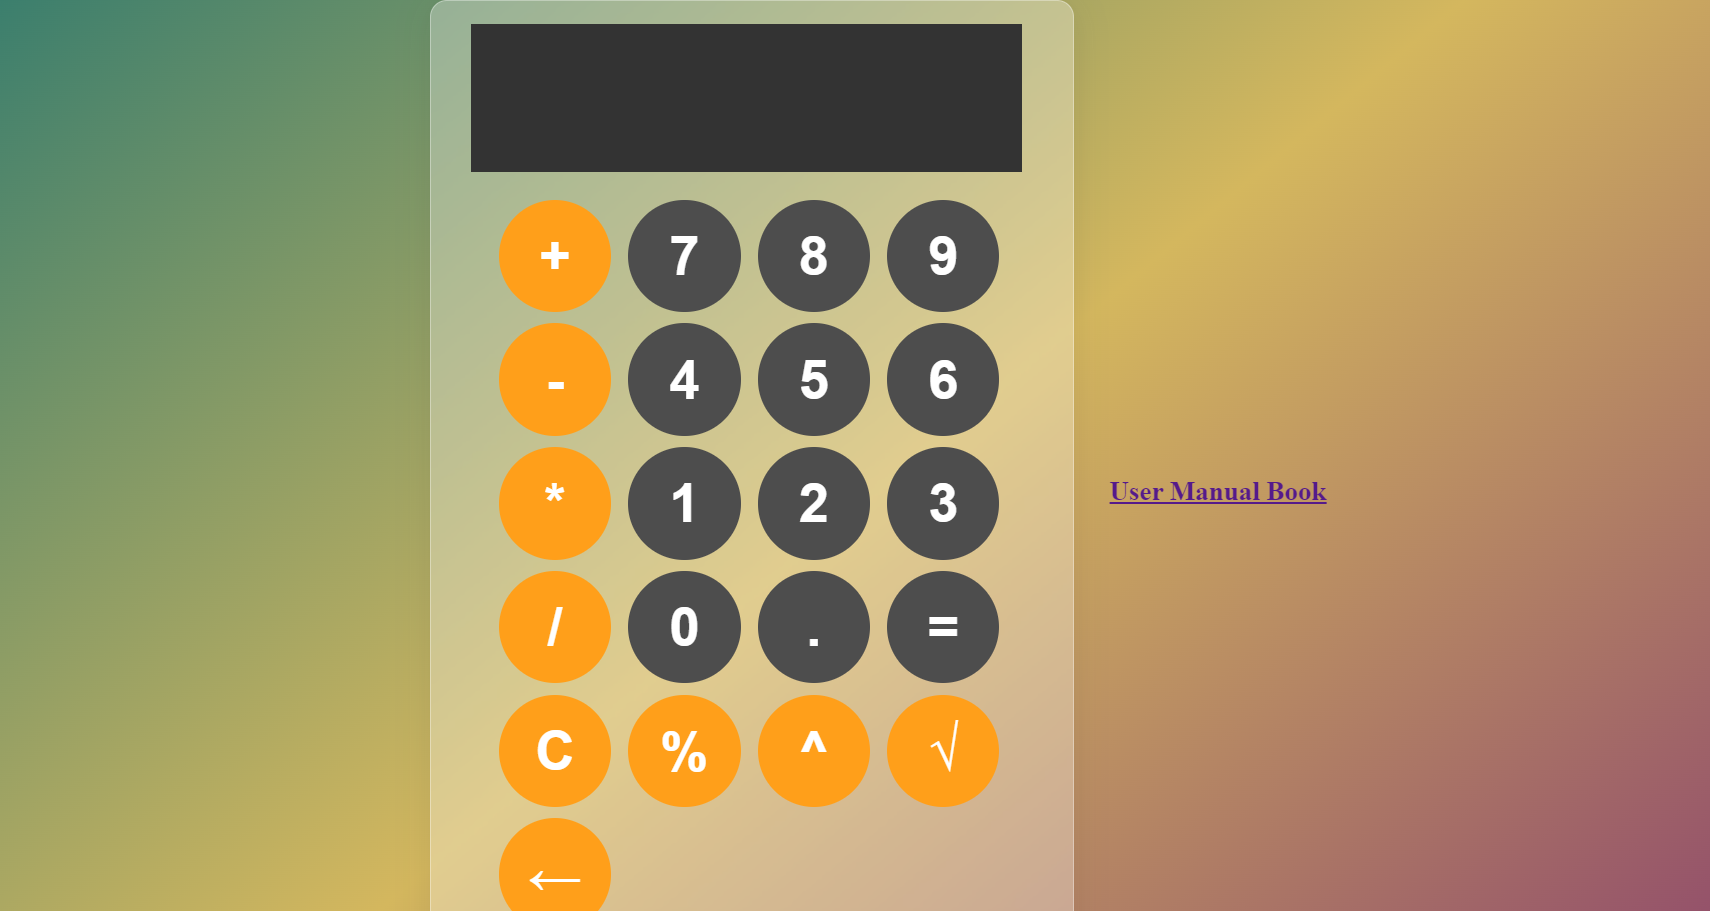
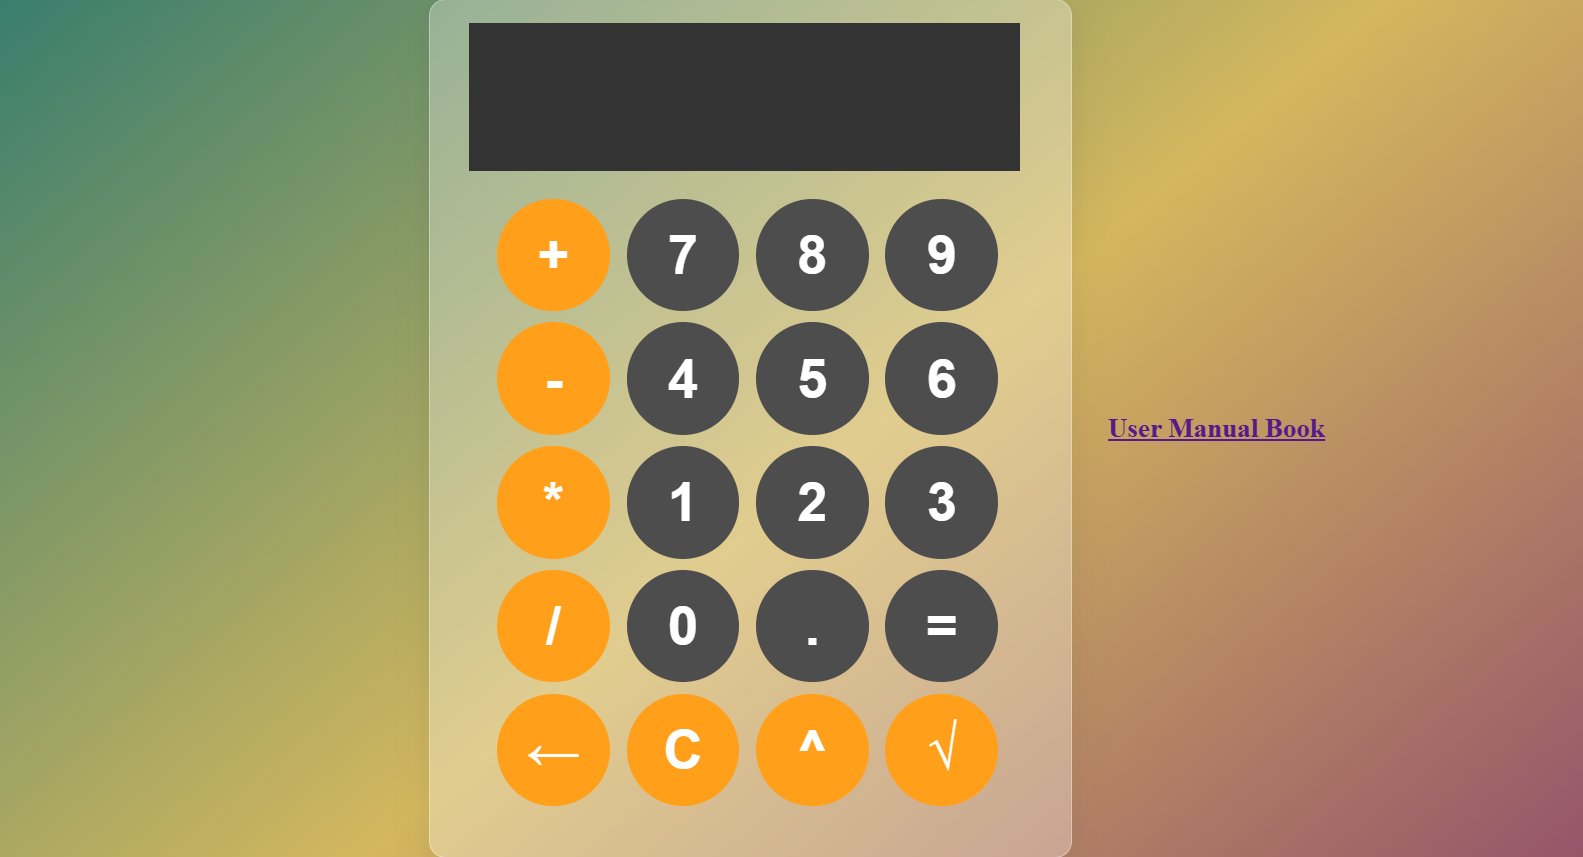
Update Revisi

Changed region(s): [[0.2476, 0.0, 0.8358, 1.0]]

diff --git a/Kalkulator/book.html b/Kalkulator/book.html
@@ -41,7 +41,7 @@
             <div id="item-1 " >
               <h4>1. Penjelasan Projek Kalkulator</h4>
               <p>
-                <img src="img/kalkulator.png" alt="kalkulator" class="gambar ps-5 pe-5 img-fluid">
+                <img src="img/Kalkulator.png" alt="kalkulator" class="gambar ps-5 pe-5 img-fluid">
                 <div class="keterangan text-center mb-2"><i>Gambar 1 Tampilan Projek Kalkulator</i></div>
                 <div class="penjelasan mb-4" style="text-align: justify;">
                     Gambar diatas merupakan tampilan dari kalkulator yang dimana sebagai projek 
@@ -168,12 +168,11 @@
                                 &lt;button onclick="appendToDisplay('0')"&gt;0&lt;/button&gt;
                                 &lt;button onclick="appendToDisplay('.')"&gt;.&lt;/button&gt;
                                 &lt;button onclick="calculate()"&gt;=&lt;/button&gt;
+                                &lt;button onclick="backspace()" class="operator-btn"&gt;←&lt;/button&gt; 
                                 &lt;button onclick="clearDisplay()" class="operator-btn"&gt;C&lt;/button&gt;
-                                &lt;button onclick="appendToDisplay('%')" class="operator-btn"&gt;%&lt;/button&gt;
                                 &lt;button onclick="appendToDisplay('**')" class="operator-btn"&gt;^&lt;/button&gt;
                                 &lt;button onclick="calculateSquareRoot()" class="operator-btn"&gt;√&lt;/button&gt;
                                 &lt;button onclick="backspace()" class="operator-btn"&gt;←&lt;/button&gt;    
-                                
                             &lt;/div&gt;
                         &lt;/div&gt;
                         &lt;h2 style="padding-left: 2rem;"&gt;&lt;a href=""&gt;User Manual Book&lt;/a&gt;&lt;/h2&gt;
@@ -185,8 +184,7 @@
                 <div class="keterangan text-center mb-2"><i>Gambar 3.1.b Source Code Modifikasi <HTML></HTML></i></div>
                 <div class="penjelasan mb-4" style="text-align: justify;">
                     Modifikasi source code untuk HTML yaitu modifikasi untuk menambahkan 
-                    beberapa operasi tambahan seperti modulus (%) pada baris ke-31 yang dimana 
-                    digunakan untuk mencari sisa hasil bagi 2 bilangan, lalu pangkat (^) yang dimana 
+                    beberapa operasi tambahan pangkat (^) yang dimana 
                     digunakan untuk mencari nilai pangkat dari bilangan, dan akar kuadrat (√) yang dimana 
                     digunakan untuk mencari nilai akar dari bilangan. Selain itu penambahan tombol dengan 
                     onclick="backspace()" menghapus karakter terakhir di display. 

diff --git a/Kalkulator/index.html b/Kalkulator/index.html
@@ -27,12 +27,10 @@
             <button onclick="appendToDisplay('0')">0</button>
             <button onclick="appendToDisplay('.')">.</button>
             <button onclick="calculate()">=</button>
+            <button onclick="backspace()" class="operator-btn">←</button>
             <button onclick="clearDisplay()" class="operator-btn">C</button>
-            <button onclick="appendToDisplay('%')" class="operator-btn">%</button>
             <button onclick="appendToDisplay('**')" class="operator-btn">^</button>
-            <button onclick="calculateSquareRoot()" class="operator-btn">√</button>
-            <button onclick="backspace()" class="operator-btn">←</button>    
-            
+            <button onclick="calculateSquareRoot()" class="operator-btn">√</button>  
         </div>
     </div>
     <h2 style="padding-left: 2rem;"><a href="book.html">User Manual Book</a></h2>
